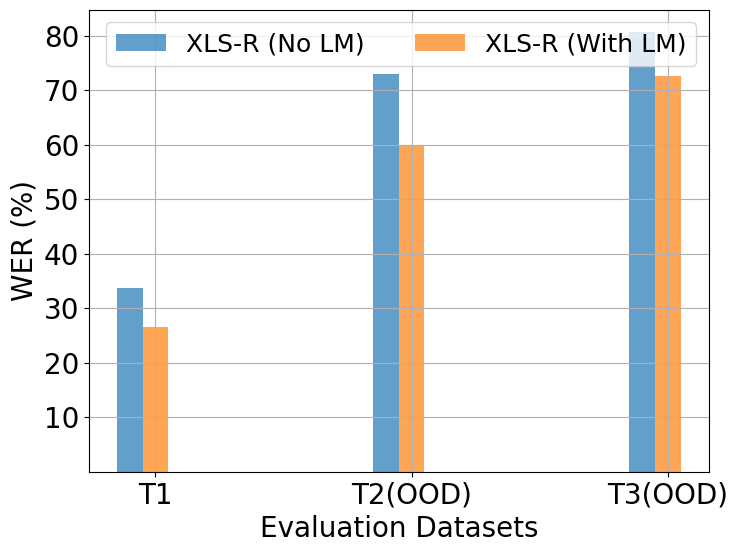
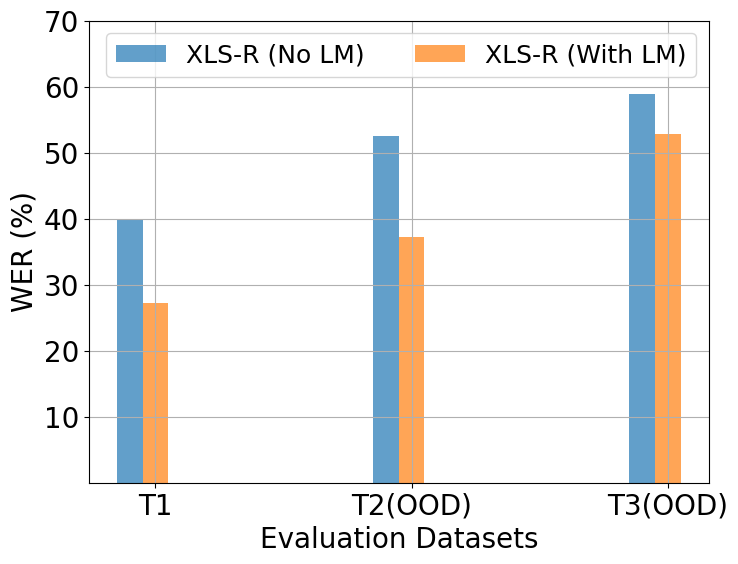
Submitted on July 21, 2024

diff --git a/paper.tex b/paper.tex
@@ -24,6 +24,7 @@
 %
 \title{Enhancing End-to-End Malayalam Automatic Speech Recognition with Language Model Augmentation}
 
+
 \titlerunning{Malayalam ASR with Language Model}
 % If the paper title is too long for the running head, you can set
 % an abbreviated paper title here
@@ -49,7 +50,7 @@
 %
 \begin{abstract}
 
-Self-supervised learning (SSL) representations using transformers from multilingual speech have significantly improved the performance of automatic speech recognition (ASR) tasks in low-resource languages. This study focuses on the development of an ASR system for the Malayalam language using pretrained SSL representations and enhance its performance with the inclusion of a statistical n-gram language model. Our findings indicate that this lamguage model augmentation reduces the word error rate by approximately 8.1\% on out-of-domain test data and 7.2\% on in-domain test data. The datasets used are diverse, encompassing a variety of speakers, speech domains, and recording environments.  Our results underscore the critical role of augmenting pre-trained speech representations with language models in developing ASR systems for languages with limited training resources. The model is made openly available on HuggingFace for reproducibility and adaptation to similar languages.
+Self-supervised learning (SSL) representations using transformers from multilingual speech have significantly improved the performance of automatic speech recognition (ASR) tasks in low-resource languages. This study focuses on the development of an ASR system for the Malayalam language using pretrained SSL representations and enhance its performance with the inclusion of a statistical n-gram language model. Our findings indicate that this language model augmentation reduces the word error rate by 12.5\% on in-domain test data and 5.9\% on out-of-domain test data. The datasets used are diverse, encompassing a variety of speakers, speech domains, and recording environments.  Our results underscore the critical role of augmenting pre-trained speech representations with language models in developing ASR systems for languages with limited training resources. The model is made openly available on HuggingFace for reproducibility and adaptation to similar languages.
 % We compare the outcomes of fine-tuning transformer-based models with traditional speech recognition methods, where acoustic and language models are trained separately and then integrated. The resulting word error rates vary significantly depending on the test dataset.
  
 \keywords{Self-supervised Learning  \and Speech Recognition \and Pretrained Models \and Low-resource language \and Language Model \and Malayalam}
@@ -59,7 +60,7 @@ Self-supervised learning (SSL) representations using transformers from multiling
 
 Self supervised learning (SSL)  representation for speech has proven to be effective in diverse speech tasks including speech recognition, classification and even translation \cite{baevski2020wav2vec,babu2021xls,barrault2023seamlessm4t}.  They are built on the idea proposed in \cite{schneider2019wav2vec} where a generic representation of speech can be computed from a huge of unlabelled speech corpus in a process called pre-training. This multi lingual speech representations learnt from huge collection of unlabelled data has proven to be effective in building automatic speech recognition (ASR) systems for languages with limited annotated corpora \cite{conneau2020unsupervised}. Alternately there are sequence to sequence architectures like Whisper \cite{whisper} that uses weakly supervised pre-training on multilingual corpora followed by language specific fine-tuning to achieve comparable performance on ASR tasks. These transformer based ASR models can work even without explicit language modelling that has been conventionally an essential component in hybrid ASR systems \cite{manohar2023automatic}.
 
-In this paper we present the results of fine-tuning the XLS-R model \cite{babu2021xls} of 300 million parameters using publicly available Malayalam read speech corpora. We augment this process with an explicit statistical language modelling using publicly available Malayalam text corpora. We test the resulting ASR model on different test datasets, including out of domain (OOD) speech data. The results are compared with the baseline pretrained models, finetuned models without LM and models developed using conventional hybrid ASR architecture.
+In this paper we present the results of fine-tuning the XLS-R model \cite{babu2021xls} of 300 million parameters using publicly available Malayalam read speech corpora. We augment this process with an explicit statistical language modelling using publicly available Malayalam text corpora. We test the resulting ASR model on different test datasets, including out of domain (OOD) speech data. The results are compared with the finetuned models without an explicit language model.
 % We also study the impact of using language model adaptation to improve ASR performance. 
 
 
@@ -125,7 +126,7 @@ Recently, there have been increased efforts to collect and document more Indian 
 
 % There has not been much explorations on end-to-end ASR architectures for Malayalam ASR due to unavailability of labelled training data. With the advent of SSL models, it has now become possible to fine-tune them effectively even in the context of low resource languages \cite{yi2020applying,holla2022end}. In a previous attempt to fine-tune an ASR model for Malayalam\footnote{\href{https://huggingface.co/gvs/wav2vec2-large-xlsr-malayalam}{Hugging face model}}, a WER of 28\% was reported. It used XLSR-Wav2Vec2.0 transformer that was pretrained on speech data from 53 languages \cite{baevski2020wav2vec}. 
 
-In the proposed work presented in this paper we fine-tune the XLS-R pretrained transformer model usisng Malayalam read speech corpora from diverse sources as done in \cite{manohar2023automatic} and expand it with language model augmentation during decoding for improved ASR performance. 
+In the proposed work presented in this paper we fine-tune the XLS-R pretrained transformer model using Malayalam read speech corpora from diverse sources as done in \cite{manohar2023automatic} and expand it with language model augmentation during decoding for improved ASR performance. 
 % We also compare the results with a hybrid ASR architecture trained and tested on the same datasets. 
 
 
@@ -178,23 +179,25 @@ The XLS-R model explained in the previous section serves as an acoustic model. I
 % \textit{Needs rewrite as per the latest experiment}
 
 
-We use the publicly available open licensed Malayalam read speech datasets \cite{baby2016resources,he-etal-2020-open} in our experiments. Every speech recording in the dataset is associated with a textual transcript in the Malayalam script. As shown in Table \ref{tab:speechdatasets}, we divide the available speech into train and test data, ensuring that speakers and speech transcripts are not overlapped. The training data sets are combined to get $\approx$ 19 hours of speech for training. The train datasets are formal and studio recorded read speech. For testing, we use three different datasets: (i) T1, which belongs to the same kind of speech as in the train set; (ii) T2, which is studio recorded speech published by Google, (iii)T2, which is mostly mock conversational speech recorded in natural and noisy environments. Both T2 and T3 can be considered as an out of domain (OOD) test set. Datasets are tabulated in Table \ref{tab:speechdatasets}. We utilized a curated collection of text corpus consisting of 205k unique sentences published by SMC \cite{smctext} to create the language model. 
+We use the publicly available open licensed Malayalam read speech datasets \cite{baby2016resources,he-etal-2020-open} in our experiments. Every speech recording in the dataset is associated with a textual transcript in the Malayalam script. As shown in Table \ref{tab:speechdatasets}, we divide the available speech into train and test data, ensuring that speakers and speech transcripts are not overlapped. The training data sets are combined to get $\approx$ 69 hours of speech for training. The train datasets are formal and studio recorded read speech. For testing, we use three different datasets: (i) T1, which belongs to the same kind of speech as in the train set; (ii) T2, which is studio recorded speech published by Google, (iii)T2, which is mostly mock conversational speech recorded in natural and noisy environments. Both T2 and T3 can be considered as an out of domain (OOD) test set. Datasets are tabulated in Table \ref{tab:speechdatasets}. We utilized a curated collection of text corpus consisting of 205k unique sentences published by SMC \cite{smctext} to create the language model. 
 
 
 \begin{table}[htpb]
 	\caption{Details of Speech data sets used in our experiments. }
 	\label{tab:speechdatasets}
 	\centering
-	\begin{tabular}{llrr}
+	\begin{tabular}{|c|l|c|c|}
 		\hline \hline
 		\textbf{Sl. No.} & \textbf{Corpus}                                     & \textbf{\#Speakers} & \textbf{Duration} \\
 		              &                                                     &                                           & (hours)         \\
 		\hline
-		$1$             & Indic TTS, IITM \cite{baby2016resources}- Train     & $2$                                    & $14$               \\
-		$2$             & Open SLR  \cite{he-etal-2020-open} - Train & $37$                                  & $5$               \\ \hline
+    		$1$             & IMaSC  \cite{gopinath2022imasc} - Train & $8$                                  & $50$    \\
+		$2$             & Indic TTS, IITM \cite{baby2016resources}- Train     & $2$                                    & $14$               \\
+		$3$             & Open SLR  \cite{he-etal-2020-open} - Train & $37$                                  & $5$             
+           \\\hline
 		T1            & Open SLR  \cite{he-etal-2020-open} - Test  & $7$                                   & $1$                \\
 		% T2            & Festvox IIITH \cite{prahallad2012iiit} - Test       & $1$                   & $1000$                  & $98$                \\
-   	T2&FLEURS \cite{fleurs2022arxiv}   -Test                                                  &$0$                       & $0$  \\
+   	T2&FLEURS \cite{fleurs2022arxiv}   -Test                                                  &$2$                       & $1$  \\
 		 T3&MSC \cite{smcspeech}   -Test                             & $75$                                             & $1.5$                    \\
 
 \hline
@@ -259,7 +262,7 @@ In this section we explain the experimental setup for building the Malayalam ASR
 \begin{figure}[htpb]
 % \vspace{-0.2}
     \centering
-    \includegraphics[width=0.8\linewidth, height=0.4\linewidth]{WER.png}
+    \includegraphics[width=0.8\linewidth, height=0.5\linewidth]{wer-curve.png}
     \caption{WER reduction on validation data during training}
     \label{Fig:WER}
 
@@ -305,7 +308,7 @@ The initial CNN layers of the transformer for feature extraction are sufficientl
 \section{Results and Discussion}
 
 We evaluate our ASR model upon publicly available test datasets, namely T1, T2 and T3 as described in Table \ref{tab:speechdatasets}.  We present the 
-results of evaluating our model upon these test datasets, with and without the augmentation of a language model. ASR model performance is measured in terms of word error rate (WER). WER is calculated on the basis of the number of words (N) in the ground truth speech transcript and the number of word insertions (I), deletions (D) and  substitutions (S)  in the  predicted transcript as described in equation \ref{eq:wer}.
+results of evaluating our model upon these test datasets, with and without the augmentation of a language model. ASR model performance is measured in terms of word error rate (WER). WER is calculated on the basis of the number of words (N) in the ground truth speech transcript and the number of word insertions (I), deletions (D) and  substitutions (S)  in the  predicted transcript as described in equation \ref{eq:wer}. During evaluation, punctuation have been removed from the ground-truth to ensure no undue penalty is imposed.
 
 \begin{equation}
 	\label{eq:wer}
@@ -313,18 +316,18 @@ results of evaluating our model upon these test datasets, with and without the a
 \end{equation}
 
 
-T1 belongs to the same class of studio recorded read speech corpora used in the training process. T2 and T3 however are OOD datasets, where T3 is particularly unique with its mock conversational nature and noisy recording environments. With the augmentation of language models, the WER on the evaluation datasets T1, T2 and T3 are 26.5\%, 60.0\% and 72.6\%. These values show a relative improvement in WER when compared to the models without LM, by 7.2\%, 12.9\% and 8.1\% respectively.
+T1 belongs to the same class of studio recorded read speech corpora used in the training process. T2 and T3 however are OOD datasets, where T3 is particularly unique with its mock conversational nature and noisy recording environments. With a trigram language model on top of XLS-R acoustic model, the WER on the evaluation datasets T1, T2 and T3 are 27.3\%, 37.2\% and 52.9\% respectively. These values show a substantial improvement in WER when compared with the same model without an explicit LM by relative WER reduction of 12.5\%, 15.3\% and 5.9\% respectively.
 
 \begin{figure}[htpb]
 % \vspace{-0.2}
     \centering
-    \includegraphics[width=0.6\textwidth]{wer.png}
+    \includegraphics[width=0.55\textwidth]{wer.png}
     \caption{WER on evaluation datasets, with and without LM augmentation}
     \label{Fig:WEReval}
 
 \end{figure}
 
-The resulting WER on different datasets are illustrated in Fig. \ref{Fig:WEReval}. Even though the WER are prohibitively high in out of domain datasets, the augmentation of LM clearly shows the possibility of improving ASR systems for morphologically high low resource languages like Malayalam.
+The resulting WER on different datasets are illustrated in Fig. \ref{Fig:WEReval}. The augmentation of LM clearly shows the possibility of improving ASR systems for morphologically high low resource languages like Malayalam.
 
 % \subsection{Decoding the test speech}
 
@@ -344,14 +347,11 @@ The resulting WER on different datasets are illustrated in Fig. \ref{Fig:WEReval
 %     \caption{Performance Evaluation}
 %     \label{tab:results}
 %     \centering
-%     \begin{tabular}{l|cc}
+%     \begin{tabular}{l|c|c|c}
 %     \hline \hline
-%          \textbf{Model}& \multicolumn{2}{c}{\textbf{WER (\%)}} \\ 
-%           & \textbf{T1} & \textbf{T2 - OOD}\\ \hline
-%          GMM-HMM + Bigram LM&40.5& 91.5\\
-%          TDNN + Bigram LM&34.9 & 86.3\\ \hline
-%          \textbf{XLS-R + CTC  + Viterbi}  &\textbf{33.7} &\textbf{80.7}\\
-%          XLS-R+ CTC + KenLM&26.51&72.64 \\ 
+%          \textbf{Model}& \multicolumn{3}{c}{\textbf{WER (\%)}} \\  \hline
+%            {XLS-R (No LM)}  &{39.8} &{52.5} &{58.87}\\
+%          XLS-R (With LM) & & &\\ 
 %          \hline
 %     \end{tabular}
 
@@ -359,7 +359,7 @@ The resulting WER on different datasets are illustrated in Fig. \ref{Fig:WEReval
 
 \section{Conclusion}
 
-In this work, we have developed an ASR system for the Malayalam language using the self-supervised XLS-R architecture. The transformer is pre-trained on nearly 436K hours of unlabelled multilingual speech and fine-tuned on 19 hours of labelled Malayalam speech data from various publicly available sources. The results showed that our proposed model was superior to the traditional hybrid automatic speech recognition systems that were trained on the same speech dataset. By incorporating a language models on top of the XLS-R transformer, further improvement in the WER by  7.2\% was observed  on in-domain test dataset and an improvement of at least 8.1\% was observed on out of domain test datasets. An absolute improvement in WER is expected with additional speech data sources used in the fine-tuning process.
+In this work, we have developed an ASR system for the Malayalam language using the self-supervised XLS-R architecture. The transformer is pre-trained on nearly 436K hours of unlabelled multilingual speech and fine-tuned on 69 hours of labelled Malayalam speech data from various publicly available sources. By incorporating a trigram language model on top of the XLS-R transformer, further improvement in the WER by  12.5\% was observed  on in-domain test dataset and an improvement of at least 5.9\% was observed on out-of-domain test datasets. An absolute improvement in WER is expected with additional speech data sources used in the fine-tuning process.
 
 
 %%%%%%%%%%%%%%%%%%%%%%%%%%%%%%%
